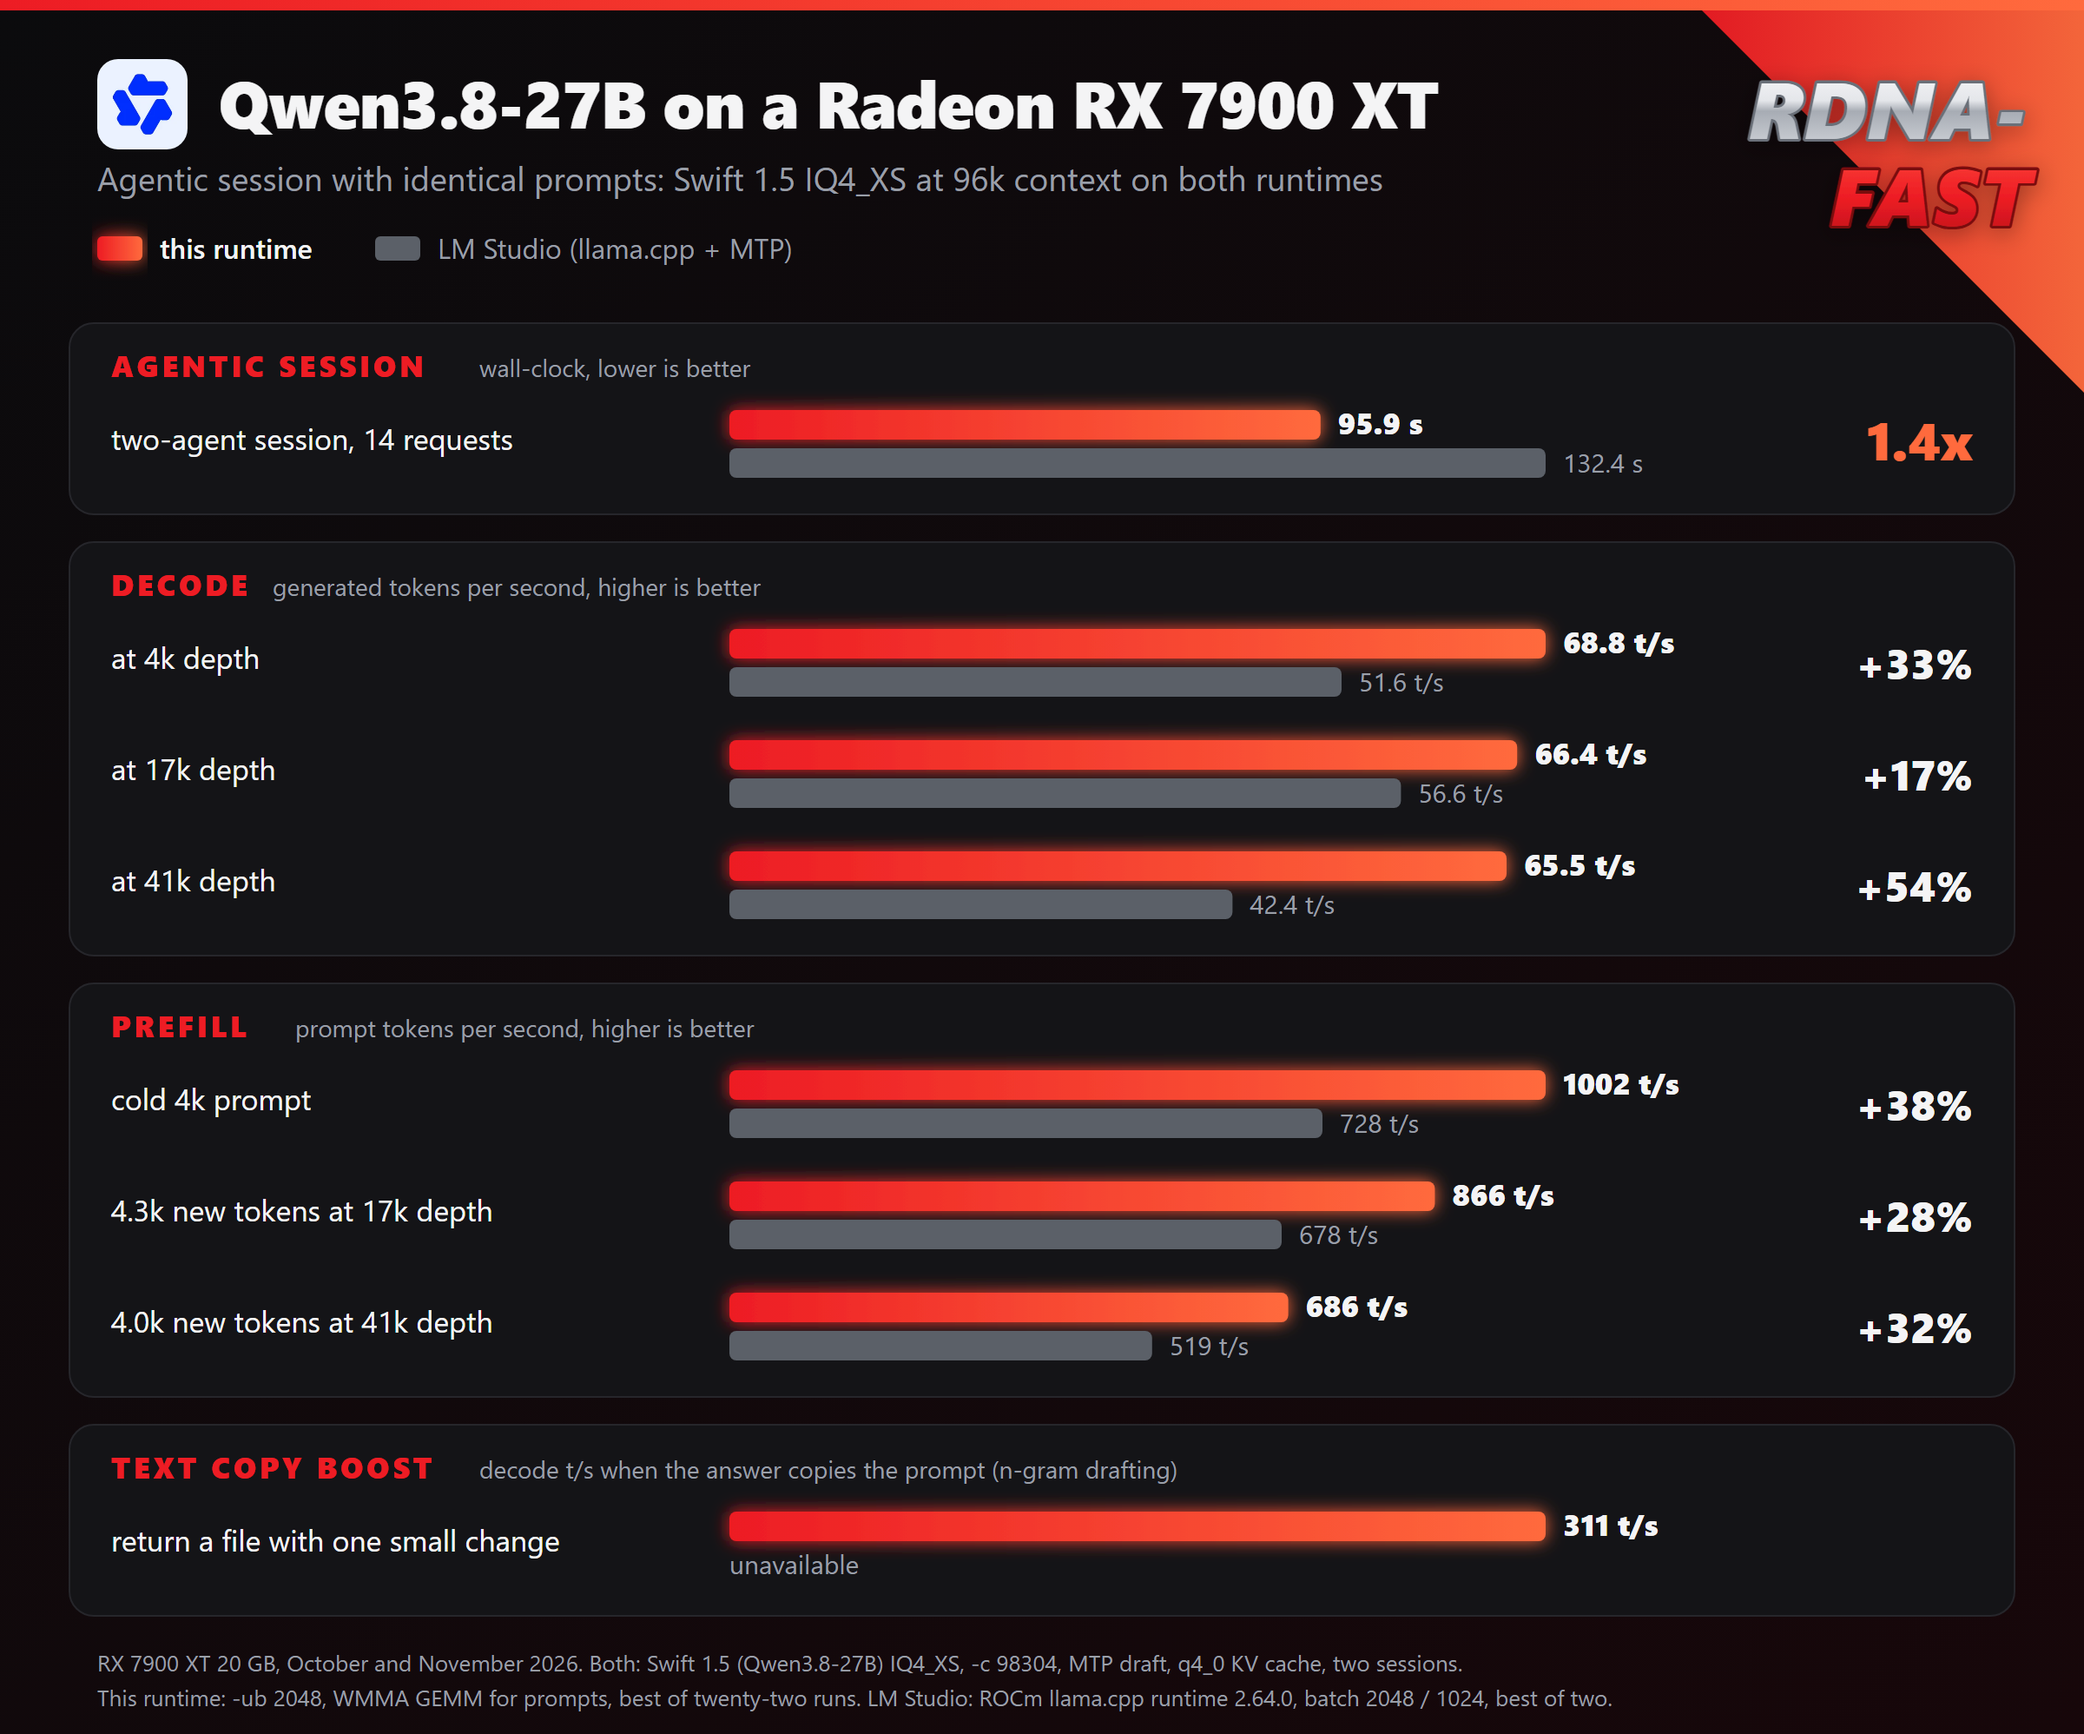
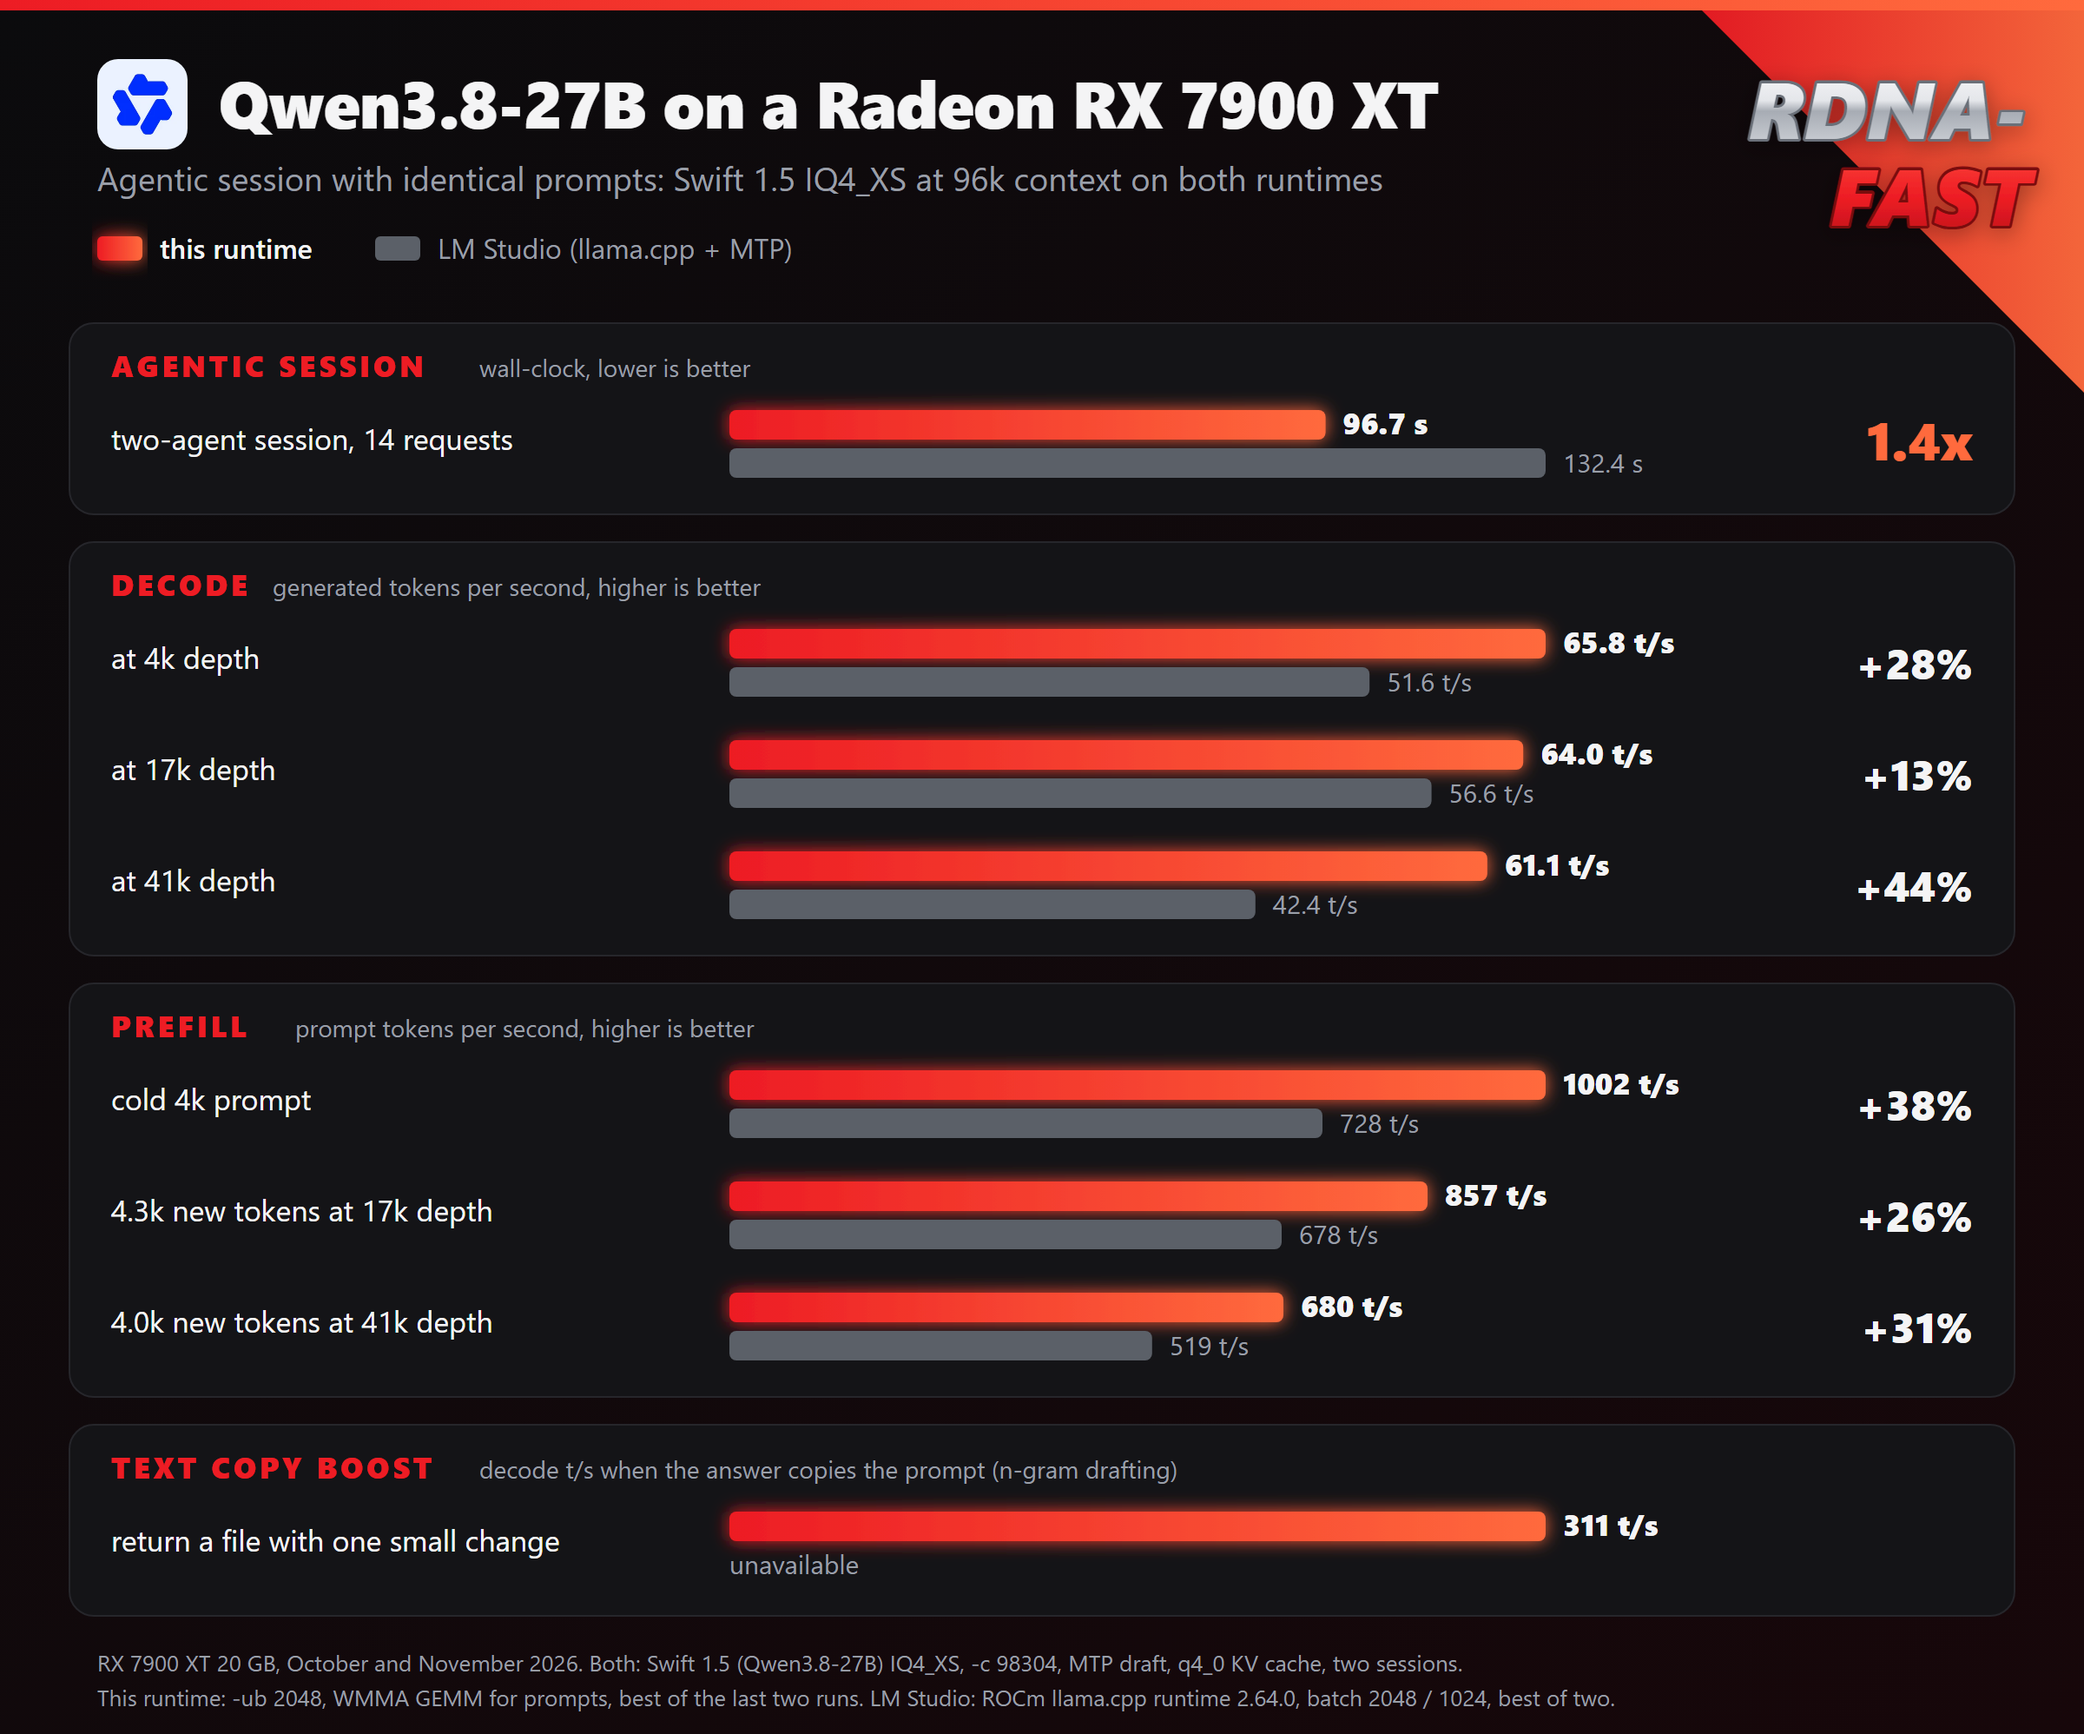
README, chart: the best of the last two runs
The chart and the README tables now show the best of the newest two runs, and say so, instead of the best of
all twenty-two: session 96.7 s, decode 65.8 / 64.0 / 61.1, prefill 1,002 / 857 / 680, text copy 311 (the two
chart sessions of 707407de1). The decode-peak and cold-prompt tables are the best of the last two README bench
runs; their values do not change. The without-MTP row comes from an earlier run, as its caption says.

diff --git a/README.md b/README.md
@@ -14,7 +14,7 @@ formats) and [llama.cpp](https://github.com/ggml-org/llama.cpp).
 ## Highlights
 
 - **Faster agent loops than LM Studio on the same card.** With the same model,
-  quant and context, a scripted two-agent session finishes in 96 s instead of
+  quant and context, a scripted two-agent session finishes in 97 s instead of
   132 s. [Numbers](#speed)
 
 - **Multi-token prediction.** The model's own MTP head drafts tokens ahead: up
@@ -66,20 +66,20 @@ grows from 4k to 41k tokens, a 10k-token worker is called twice in between):
 
 | | LM Studio + MTP draft | this runtime |
 |---|---:|---:|
-| **the session, wall-clock** | **132 s** | **96 s** |
+| **the session, wall-clock** | **132 s** | **97 s** |
 | prefill t/s, cold 4k prompt | 728 | 1,002 |
-| prefill t/s, 4.3k new tokens at 17k depth | 678 | 866 |
-| prefill t/s, 4.0k new tokens at 41k depth | 519 | 686 |
-| decode t/s at 4k depth | 51.6 | 68.8 |
-| decode t/s at 17k depth | 56.6 | 66.4 |
-| decode t/s at 41k depth | 42.4 | 65.5 |
+| prefill t/s, 4.3k new tokens at 17k depth | 678 | 857 |
+| prefill t/s, 4.0k new tokens at 41k depth | 519 | 680 |
+| decode t/s at 4k depth | 51.6 | 65.8 |
+| decode t/s at 17k depth | 56.6 | 64.0 |
+| decode t/s at 41k depth | 42.4 | 61.1 |
 | decode t/s, text copy boost: code edit that copies the prompt | unavailable | 311 |
 
 <sub>October and November 2026. Both run Swift 1.5 IQ4_XS at `-c 98304` with MTP drafting,
 flash attention, a q4_0 KV cache and two sessions, the best run for each value
-(LM Studio: two runs, this runtime: twenty-two). LM Studio is its ROCm llama.cpp
+(LM Studio: two runs, this runtime: the last two). LM Studio is its ROCm llama.cpp
 runtime 2.64.0 with batch 2048 / 1024; this runtime runs the quick start below.
-The edit row is the text copy boost, n-gram drafting, the best of 33 edits;
+The edit row is the text copy boost, n-gram drafting, the best of the six edits in those runs;
 LM Studio cannot run it, as its API does not switch Swift 1.5's thinking
 off.</sub>
 
@@ -89,18 +89,19 @@ The same session with each quant we tested:
 |---|---:|---:|---:|---:|---:|---:|
 | [Q4_K_M](https://huggingface.co/ukisai/Swift-1.5-Qwen3.8-27B-GGUF/blob/main/Swift-1.5-Qwen3.8-27B-Q4_K_M.gguf)\* | 17.4 GB | 146.8 s | 1,211 s (spill) | 408 / 548 / 431 | 50.6 / 50.8 / 48.2 | 238 |
 | [Q4_K_S](https://huggingface.co/ukisai/Swift-1.5-Qwen3.8-27B-GGUF/blob/main/Swift-1.5-Qwen3.8-27B-Q4_K_S.gguf) | 16.4 GB | 112.6 s | 1,139 s (spill) | 889 / 769 / 616 | 49.2 / 51.7 / 48.8 | 247 |
-| [IQ4_XS](https://huggingface.co/ukisai/Swift-1.5-Qwen3.8-27B-GGUF/blob/main/Swift-1.5-Qwen3.8-27B-IQ4_XS.gguf) | 15.5 GB | 95.9 s | 132.4 s | 1,002 / 866 / 686 | 68.8 / 66.4 / 65.5 | 311 |
+| [IQ4_XS](https://huggingface.co/ukisai/Swift-1.5-Qwen3.8-27B-GGUF/blob/main/Swift-1.5-Qwen3.8-27B-IQ4_XS.gguf) | 15.5 GB | 96.7 s | 132.4 s | 1,002 / 857 / 680 | 65.8 / 64.0 / 61.1 | 311 |
 | [ROCmFP4-FP6](docs/rocmfpx/swift-1.5-qwen3.8-27b-rocmfp4-fp6.md) | 16.1 GB | 104.5 s | | 923 / 798 / 634 | 60.2 / 56.4 / 58.5 | 243 |
 
 <sub>\* At 64k (`-c 65536`) and `-ub 512`: the smaller context and prompt
 batches keep Q4_K_M's spill into system RAM down while staying above Hermes'
 64,000-token minimum. The other quants ran at 96k with `-ub 1024`, IQ4_XS at
 `-ub 2048` since. Prefill and decode are this runtime's, in the session above;
-the better of two runs (IQ4_XS: the best of twenty-two, Q4_K_M: one). LM Studio's Q4_K_S and Q4_K_M sit at the edge of
+the better of two runs (IQ4_XS: the last two, Q4_K_M: one). LM Studio's Q4_K_S and Q4_K_M sit at the edge of
 the card's memory and read every prompt again in full. ROCmFP4-FP6 is a ROCmFPX
 format, which LM Studio does not load.</sub>
 
-Decode, 450-token answers at temperature 1, the best of 36:
+Decode, 450-token answers at temperature 1, the best of the last two runs
+(nine answers each; without MTP from an earlier run):
 
 | decode t/s | peak |
 |---|---:|
@@ -108,7 +109,8 @@ Decode, 450-token answers at temperature 1, the best of 36:
 | code | 93.6 |
 | without MTP, prose or code | 36.8 |
 
-Cold prompts, each followed by a 300-token answer at that depth:
+Cold prompts, each followed by a 300-token answer at that depth, the best of
+the last two runs:
 
 | | 17k | 41k | 69k |
 |---|---:|---:|---:|
